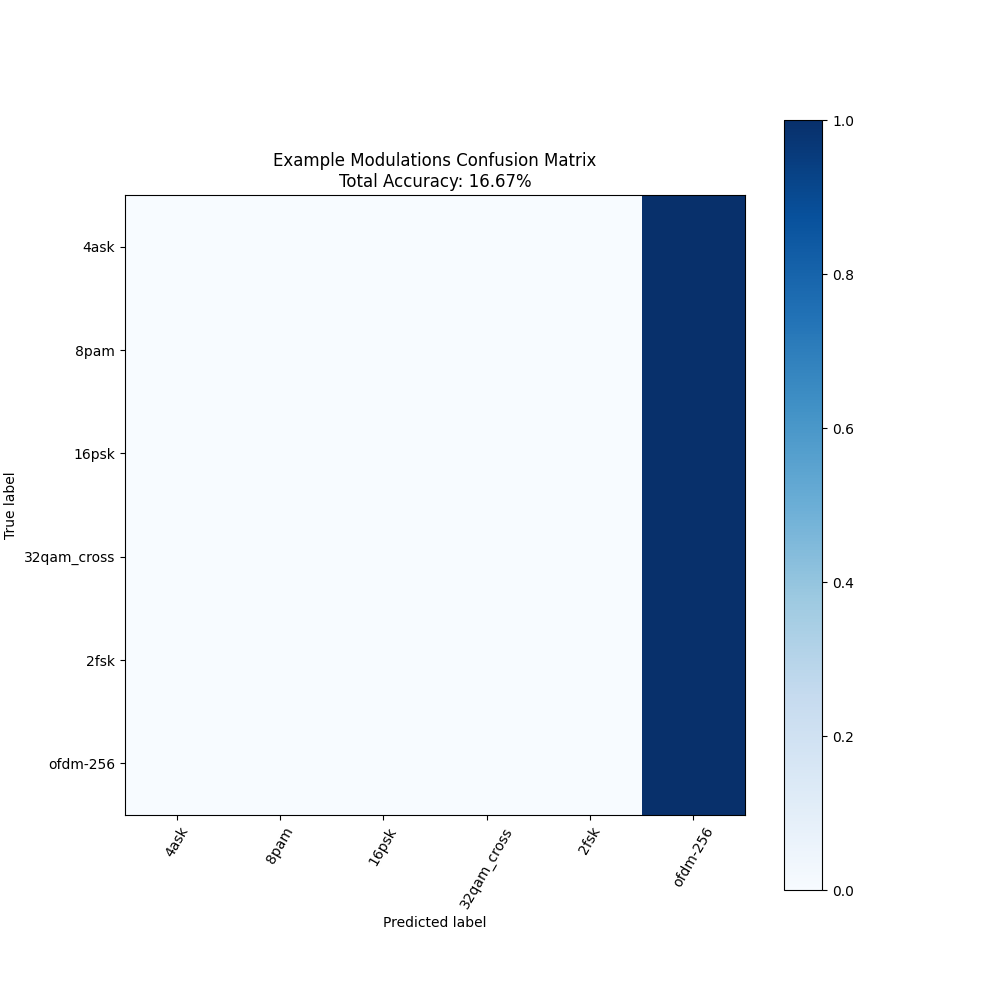
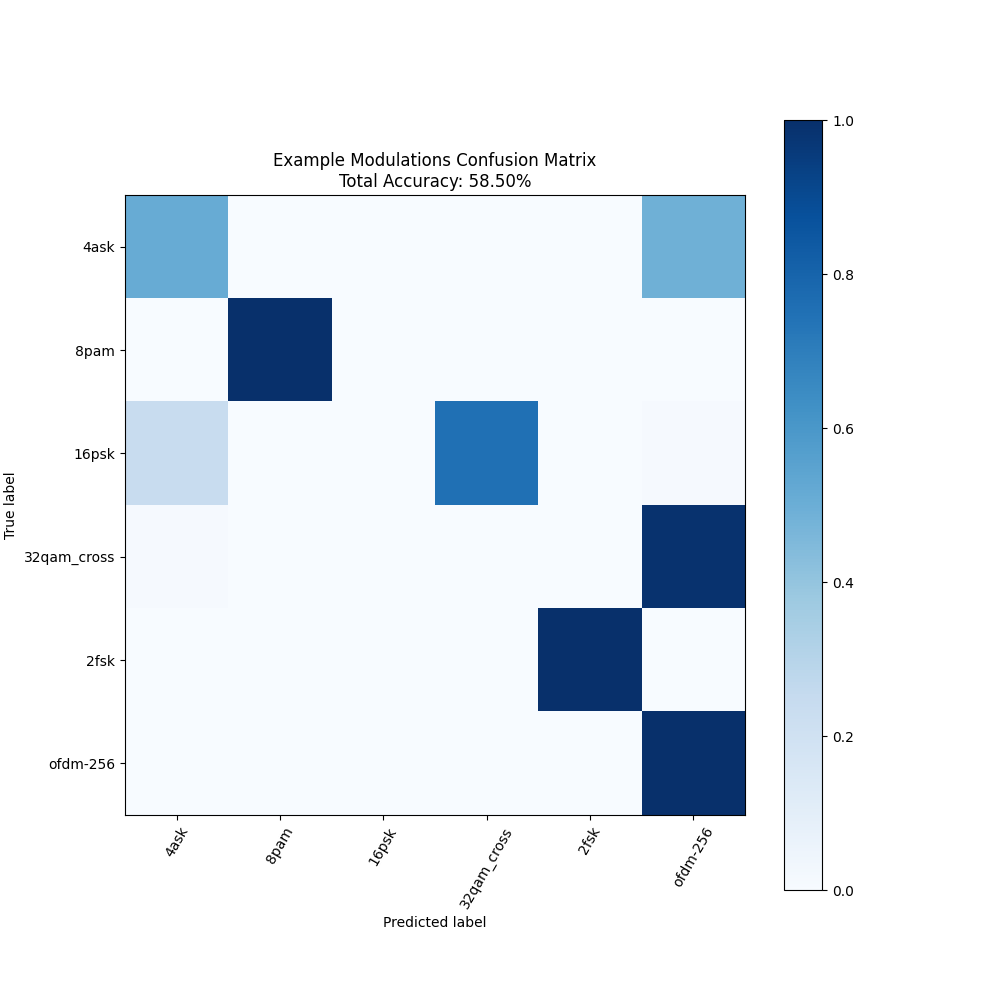
Bug fix with the classifier.

diff --git a/steps/train_classifier.py b/steps/train_classifier.py
@@ -11,10 +11,12 @@ def train_classifier(dl_train: DataLoader,
                 dl_val: DataLoader,
                 epochs: int,
                 train_bool: bool,
-                eff_net_PATH: str) -> ExampleNetwork:
+                eff_net_PATH: str,
+                classes: list) -> ExampleNetwork:
     
     model = efficientnet_b4(
-        pretrained=False
+        pretrained=False,
+        num_classes=len(classes)
     )
     example_model = ExampleNetwork(model, dl_train, dl_val)
     example_model = example_model.float().to(device)    

diff --git a/pipelines/training_pipeline.py b/pipelines/training_pipeline.py
@@ -87,7 +87,8 @@ def training_pipeline(classes: list,
                                   dl_val = dl_val,
                                   epochs = classifier_epochs,
                                   train_bool = trainbool,
-                                  eff_net_PATH = eff_net_path)
+                                  eff_net_PATH = eff_net_path,
+                                  classes = classes)
     
     accuracies_Hae = eval_HAE(classes,HAE_model,classifier,ds_test)
     

diff --git a/steps/train_model.py b/steps/train_model.py
@@ -121,7 +121,7 @@ def train_HQA(dl_train: DataLoader,
     
     for i in range(layers): 
         print(f'training Layer {i}')
-        print('===============================================')
+        print('==============================================')
         if i == 0:
             hqa = HQA.init_bottom(
                 input_feat_dim=input_feat_dim,

diff --git a/run_pipeline.py b/run_pipeline.py
@@ -8,8 +8,8 @@ if __name__  == "__main__":
     batch_size = 32
     Hae_epochs = 100
     Hqa_epochs = 100
-    classifier_epochs = 15
-    trainbool = False
+    classifier_epochs = 100
+    trainbool = True
     eff_net_PATH = f"./src/classifiers/{classifier_epochs}epochs_classifier.pt"
 
     layers = 5
